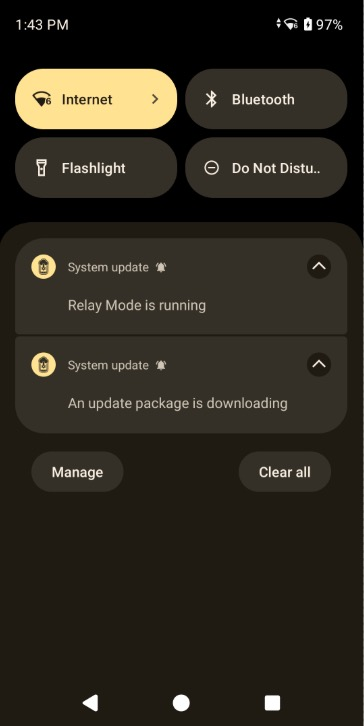
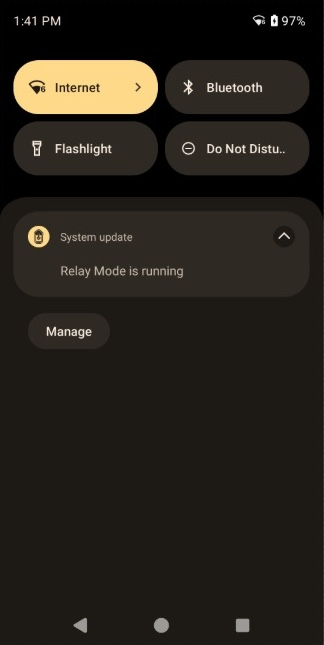
[TUT-133331] LifeGuard Relay Mode updates, per eng; tweex

diff --git a/lifeguard/relaymode/index.html b/lifeguard/relaymode/index.html
@@ -341,7 +341,7 @@ which includes Android OS updates, security patches and firmware. Configuration 
 
 
 <ul>
-<li>After Relay Mode is configured, LifeGuard Over-the-Air updates fail with Error Code 5151 ("Unable to perform OS update as LifeGuard OTA is configured in Relay mode").</li></ul>
+<li>After Relay Mode is configured, LifeGuard Over-the-Air updates fail with error code 5151 ("Unable to perform OS update as LifeGuard OTA is configured in Relay mode").</li></ul>
 </li>
 
 <li><strong>Security</strong>
@@ -368,7 +368,9 @@ which includes Android OS updates, security patches and firmware. Configuration 
 
 
 <ul>
-<li>Relay Mode does not support updates with Hotfix and Custom packages.</li>
+<li><strong><u>Relay Mode supports only updates designated with "STD"</u> in the file name</strong>.</li>
+
+<li>Updates for hotfix or custom packages are not supported.</li>
 
 <li>Baseline (U00) delta update packages are not supported.</li>
 
@@ -562,18 +564,25 @@ pause
 
[1 lines of base64/hex data omitted]
 
-<h3 id="devicenotifications" class="anchor"><a class="heading-anchor" href="#devicenotifications"><span></span></a>Device Notifications</h3>
+<hr>
+
+<h2 id="devicenotifications" class="anchor"><a class="heading-anchor" href="#devicenotifications"><span></span></a>Device Notifications</h2>
 
 <ul>
-<li><strong>Relay Mode is running -</strong> Device is configured to receive updates from a non-Zebra relay server. <br>
-Status and relay-server settings also are visible on the device in <strong>Settings &gt; System &gt; System Update</strong>:
-<img alt="image" style="height:450px" src="relay-server-settings.jpg">
+<li><strong>Relay Mode is running -</strong> Device is configured to receive updates from a non-Zebra relay server:
+<img alt="image" style="height:450px" src="relay-mode-running.jpg">
 <em>Click image to enlarge; ESC to exit.</em>
 <br></li>
 
-<li><strong>An update package is downloading -</strong> An update is being downloaded to the device. </li>
+<li><strong>An update package is downloading -</strong> An update is being downloaded to the device. 
+<img alt="image" style="height:450px" src="relay-mode-update-downloading.jpg">
+<em>Click image to enlarge; ESC to exit.</em>
+<br></li>
 
-<li><strong>Ready to update -</strong> An update has been downloaded and is ready to be applied.  </li>
+<li><strong>Ready to update -</strong> An update has been downloaded and is ready to be applied. <br>
+<img alt="image" style="height:450px" src="relay-mode-update-flow.jpg">
+<em>Click image to enlarge; ESC to exit.</em>
+<br></li>
 </ul>
 
 <hr>
@@ -591,11 +600,9 @@ Format of FTP/FTPS and HTTP/HTTPS Full URLs
 If the host name is provided as a full URL, unsupported special characters must be replaced with their respective percentile-encoded values:
  -->
 
-<hr>
-
 <h2 id="serverconfiguration" class="anchor"><a class="heading-anchor" href="#serverconfiguration"><span></span></a>Server Configuration</h2>
 
-<p>The table below contains parameters and available options for configuring a server for Relay Mode.</p>
+<p>The table below contains parameters and available options for configuring a server for Relay Mode. </p>
 
 <table class="facelift" align="center" style="width:80%" border="1" padding="5px">
 <tbody><tr bgcolor="#dce8ef">
@@ -604,7 +611,7 @@ If the host name is provided as a full URL, unsupported special characters must 
 <th>Parameter</th>
 <th>Description</th>
 <th>Default Value</th>
-<th>Example</th>
+<th>Example(s)</th>
 </tr>
 
 <tr>
@@ -630,7 +637,7 @@ If the host name is provided as a full URL, unsupported special characters must 
 
 <tr>
 <td>Server Host</td>
-<td>The host name of the server hosting OS Update files. Can be a full URL, IP address or domain name.</td>
+<td>The host name of the server hosting OS Update files. Can be a full URL, IP address or domain name.<br><i class="fa fa-exclamation-triangle" style="color:#FFA500;"></i> Proper host-name formatting is critical. <b><i class="fa fa-arrow-circle-down" style="color:#27AE60;"></i> <b><a href="#hostnameformatting">See below</a></b></b></td>
 <td>none</td>
 <td>"ftp.zebra-updates.com"<br>"123.134.22.44"<br></td>
 </tr>
@@ -693,6 +700,84 @@ If the host name is provided as a full URL, unsupported special characters must 
 
 <hr>
 
+<h3 id="hostnameformatting" class="anchor"><a class="heading-anchor" href="#hostnameformatting"><span></span></a>Host Name Formatting</h3>
+
+<p>To ensure reliable and error-free device updates, it's important to correctly input and format all device configuration data, including the Relay Server host name, login credentials and port information. Some examples of valid and invalid data are shown below. <i class="fa fa-exclamation-circle" style="color:#FF0000;"></i> <strong>In some cases, percent-encoding must be used in place of special characters</strong>. See Special Character Encoding, below. </p>
+
+<ul>
+<li><strong>Valid FTP/FTPS URLs</strong>: 
+
+
+<ul>
+<li><code>ftp://user:pass@12.34.56.78:2121/</code> </li>
+
+<li><code>ftp://host.com/pub/</code> </li>
+
+<li><code>ftp://user:pass%401234@12.34.56.78:2121/</code> </li>
+
+<li><code>ftp://username:password@ipaddress:portno/</code> </li>
+
+<li><code>ftps://user:pass@12.34.56.78:2121/filelocation/</code></li></ul>
+</li>
+
+<li><strong>Valid HTTP/HTTPS URLs</strong>:
+
+
+<ul>
+<li><code>https://example.com/</code> </li>
+
+<li><code>http://192.168.1.100/admin/</code> </li>
+
+<li><code>http://localhost:8080/dashboard/</code> </li></ul>
+</li>
+
+<li><strong>INVALID URLs</strong>:
+
+
+<ul>
+<li><code>https://example.com</code> (trailing slash missing)</li>
+
+<li><code>http://192.168.1.100/admin</code> (trailing slash missing)</li>
+
+<li><code>http://localhost:8080/dashboard/</code> (inaccessible server)</li>
+
+<li><code>ftp://user:pass@12.34.56.78:2121</code> (missing path to file repo)</li></ul>
+</li>
+</ul>
+
+<p><br></p>
+
+<h4 id="specialcharacterencoding" class="anchor"><a class="heading-anchor" href="#specialcharacterencoding"><span></span></a>Special Character Encoding</h4>
+
+<p><strong>When including special characters within a URL, they must be percent-encoded</strong>, which replaces the special character with a percent sign (%) plus two hexadecimal digits representing the ASCII value of the character. For example, a space (not shown below) is encoded as <code>%20</code>. Other common special characters are shown below with their percent-encoded equivalents. </p>
+
+<ul>
+<li><strong>Special characters and their percent-encoded equivalents</strong>:
+
+
+<ul>
+<li><strong>@</strong> -&gt; <strong>%40</strong></li>
+
+<li><strong>:</strong> -&gt; <strong>%3A</strong> </li>
+
+<li><strong>$</strong> -&gt; <strong>%24</strong> </li>
+
+<li><strong>%</strong> -&gt; <strong>%25</strong></li>
+
+<li><strong>!</strong> -&gt; <strong>%21</strong> </li>
+
+<li><strong>;</strong> -&gt; <strong>%3B</strong> </li>
+
+<li><strong>,</strong> -&gt; <strong>%2C</strong> </li>
+
+<li><strong>?</strong> -&gt; <strong>%3F</strong> </li>
+
+<li><strong>+</strong> -&gt; <strong>%2B</strong>  </li>
+
+<li><strong>*</strong> -&gt; <strong>%2A</strong></li></ul>
+</li>
+</ul>
+
 <hr>
 
 <h2 id="devicemonitoring" class="anchor"><a class="heading-anchor" href="#devicemonitoring"><span></span></a>Device Monitoring</h2>
@@ -721,15 +806,25 @@ If the host name is provided as a full URL, unsupported special characters must 
 
 <h4 id="ftpserverconnectionunsuccessful" class="anchor"><a class="heading-anchor" href="#ftpserverconnectionunsuccessful"><span></span></a>"FTP server connection unsuccessful"</h4>
 
-<p><strong>Resolution</strong>: Double-check the configuration settings. Ensure that the server protocol, port number, and host name are entered correctly.</p>
+<p><strong>Resolution</strong>: Double-check the configuration settings. Ensure that the server protocol, port number, and host name are entered correctly.<br></p>
 
-<p><img alt="image" style="height:450px" src="relay-server-settings.jpg">
+<p><img alt="image" style="height:350px" src="relay-mode-connection-unsuccessful.jpg
+">
+  <em>Click image to enlarge; ESC to exit.</em>
+  <br></p>
+
+<p>Status and relay-server settings are visible on the device in <strong>Settings &gt; System &gt; System Update</strong>:
+  <img alt="image" style="height:350px" src="relay-server-settings.jpg">
   <em>Click image to enlarge; ESC to exit.</em>
   <br></p>
 
 <hr>
 
 <h4 id="failedtodownload" class="anchor"><a class="heading-anchor" href="#failedtodownload"><span></span></a>"Failed to download"</h4>
+
+<p><img alt="image" style="height:350px" src="relay-mode-dowload-failed.jpg">
+  <em>Click image to enlarge; ESC to exit.</em>
+  <br></p>
 
 <ul>
 <li><strong>Possible resolutions</strong>:
@@ -748,6 +843,10 @@ If the host name is provided as a full URL, unsupported special characters must 
 
 <h4 id="downloadfileiscorrupted" class="anchor"><a class="heading-anchor" href="#downloadfileiscorrupted"><span></span></a>"Download file is corrupted"</h4>
 
+<p><img alt="image" style="height:350px" src="relay-mode-file-corrupted.jpg">
+  <em>Click image to enlarge; ESC to exit.</em>
+  <br></p>
+
 <ul>
 <li><strong>Possible resolutions</strong>:
 
@@ -763,6 +862,10 @@ If the host name is provided as a full URL, unsupported special characters must 
 
 <h4 id="osupdatecannotbestartedduetolowbattery" class="anchor"><a class="heading-anchor" href="#osupdatecannotbestartedduetolowbattery"><span></span></a>"OS Update cannot be started due to low battery"</h4>
 
+<p><img alt="image" style="height:450px" src="relay-mode-low-battery.jpg">
+  <em>Click image to enlarge; ESC to exit.</em>
+  <br></p>
+
 <ul>
 <li><strong>Possible resolution</strong>:
 
@@ -775,6 +878,11 @@ If the host name is provided as a full URL, unsupported special characters must 
 <hr>
 
 <h4 id="jobintervalisnotinvalidrange" class="anchor"><a class="heading-anchor" href="#jobintervalisnotinvalidrange"><span></span></a>"Job interval is not in valid range"</h4>
+
+<p><img alt="image" style="height:450px" src="relay-mode-not-valid.jpg
+">
+  <em>Click image to enlarge; ESC to exit.</em>
+  <br></p>
 
 <ul>
 <li><strong>Possible resolution</strong>:
